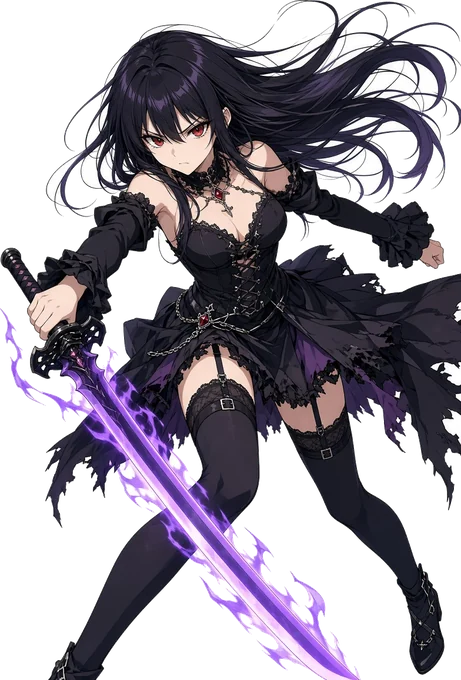
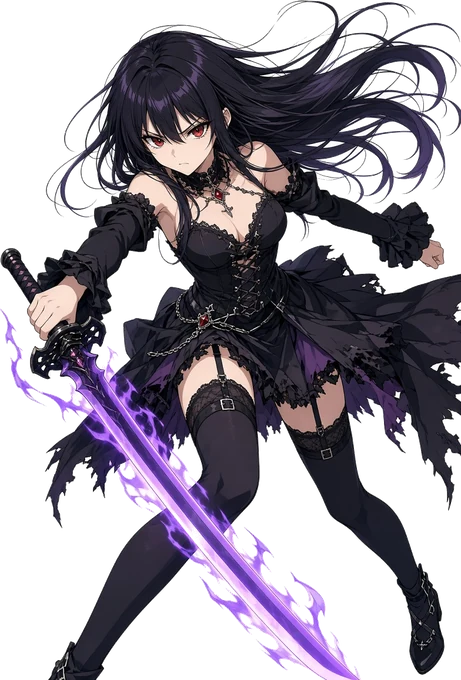
Add files via upload

diff --git a/index.html b/index.html
@@ -177,6 +177,8 @@ html{touch-action:manipulation}
 .dgrid{display:grid;grid-template-columns:repeat(4,1fr);gap:12px;margin:10px 0}.dy{background:#1a0d20;border:3px solid #e2b04a;border-radius:14px;padding:10px 4px;text-align:center;font:400 24px 'Lilita One',sans-serif}.dy b{display:block;font-size:44px;font-weight:400}.dy.cur{box-shadow:0 0 22px #ffc84a;border-color:#fff}.dy.done{opacity:.4}
 .cin{width:100%;font:inherit;font-size:34px;padding:10px 14px;border-radius:12px;border:2px solid #ffc84a;background:#2a1233;color:#fff;margin:12px 0}
 .sth{height:130px;width:auto;margin-right:16px;border-radius:12px;background:#150a1a}.nav button{padding:2px 12px;margin:4px 2px;font-size:22px}
+.unit .sp img{height:680px}#enemy .sp img{height:640px}#enemy .sp svg{height:380px}#enemy.boss .sp svg{height:580px}
+.nav button{position:relative}#nvf[data-n]:not([data-n=""])::after{content:attr(data-n);position:absolute;top:-10px;right:-4px;min-width:34px;height:34px;border-radius:17px;background:#e5484d;color:#fff;font:400 22px 'Lilita One',sans-serif;display:flex;align-items:center;justify-content:center;border:2px solid #fff}
 </style></head><body>
 <div id="app">
  <div class="top"><span class="chip"><span id="nm"></span> · Ур. <span id="lvl">1</span></span><span class="chip"><i class="ico coin"></i><span id="gold">0</span></span><span class="chip"><i class="ico gem"></i><span id="gems">0</span></span><button class="btn o gearbtn" id="cfg" aria-label="Настройки">⚙</button></div>
@@ -350,7 +352,7 @@ const gacha=()=>panel('Лудка',m=>'<div class="row rw" style="font-size:28px
 $('nvf').onclick=forge;$('nvg').onclick=gacha;
 const SN={atk:'Атака',hp:'Здоровье',crit:'Крит',dodge:'Уклон'};
 function bagAdd(it){if(S.bag.length>=40){const m=Math.min(...S.bag.map(b=>b.r));S.gold+=sell(m);S.bag.splice(S.bag.findIndex(b=>b.r===m),1)}S.bag.push(it);bl()}
-const bl=()=>{$('nvf').lastChild.textContent='Арсенал'+(S.bag.length?' ('+S.bag.length+')':'')};
+const bl=()=>{$('nvf').dataset.n=S.bag.length||''};
 function item(it){bagAdd(it);const up=it.r>S.rar[it.s];fl((up?'★ ':'')+RN[it.r]+' '+GEAR[it.s].n,up?'c':'d','enemy')}
 act['Лудка']=b=>{const n=+b.dataset.a,c=n===1?10:90;if(S.gems<c)return 'Не хватает кристаллов';S.gems-=c;let L=[];
  for(let k=0;k<n;k++){const it={s:Math.floor(Math.random()*6),r:rr([20,50,80,95])};bagAdd(it);L.push('<span style="color:'+RC[it.r]+'">'+RN[it.r]+' '+GEAR[it.s].n+'</span>')}
@@ -377,7 +379,7 @@ if(TG){try{TG.ready();TG.expand();TG.setHeaderColor('#2b1633');TG.setBackgroundC
  TG.CloudStorage.getItem('sb1',(er,v)=>{if(er||!v)return;try{const r=JSON.parse(v);if(r.t>(S.t||0)){Object.assign(S,r);if($('intro')&&S.name)$('intro').remove();hp=MAXHP();wave=1;spawn();ui();bl();applySkin()}}catch(x){}})}catch(x){}}
 $('shr').onclick=()=>{const l='https://t.me/share/url?url='+encodeURIComponent('https://t.me/AnimeArena_RPG_bot')+'&text='+encodeURIComponent('Заходи в Sakura Blade Arena!');TG?TG.openTelegramLink(l):window.open(l,'_blank')};
 const today=()=>new Date().toLocaleDateString('sv'),dg=m=>Math.floor(120*m*Math.pow(1.22,S.st-1));
-const DAILY=[['🪙','Золото',()=>S.gold+=dg(1)],['💎','5 кристаллов',()=>S.gems+=5],['📦','Бронзовый сундук',()=>S.chests[0]++],['🪙','Много золота',()=>S.gold+=dg(3)],['💎','10 кристаллов',()=>S.gems+=10],['📦','Серебряный сундук',()=>S.chests[1]++],['👑','Золотой сундук, 20 💎, эпик',()=>{S.chests[2]++;S.gems+=20;bagAdd({s:Math.floor(Math.random()*6),r:3})}]];
+const DAILY=[['<i class="ico coin"></i>','Золото',()=>S.gold+=dg(1)],['💎','5 кристаллов',()=>S.gems+=5],['📦','Бронзовый сундук',()=>S.chests[0]++],['<i class="ico coin"></i>','Много золота',()=>S.gold+=dg(3)],['💎','10 кристаллов',()=>S.gems+=10],['📦','Серебряный сундук',()=>S.chests[1]++],['👑','Золотой сундук, 20 💎, эпик',()=>{S.chests[2]++;S.gems+=20;bagAdd({s:Math.floor(Math.random()*6),r:3})}]];
 function daily(force){if($('ov')||$('intro')){setTimeout(()=>daily(force),1500);return}
  const t=today(),can=S.dl.last!==t;if(!can&&!force)return;
  const y=new Date(Date.now()-864e5).toLocaleDateString('sv'),st=can?(S.dl.last===y?S.dl.streak:0)+1:S.dl.streak,idx=Math.max(0,(st-1)%7);
@@ -388,7 +390,7 @@ act['Клан']=b=>{const a=b.dataset.a,c=S.cl;
  if(a==='up'){if(c.lv>=20)return 'Максимальный уровень';if(S.gold<cc(c.lv))return 'Не хватает золота';S.gold-=cc(c.lv);c.lv++;save();return 'Клан вырос до '+c.lv+' ур.!'}
  if(c.raid===today())return 'Рейд уже был сегодня';c.raid=today();const g=3+Math.floor(c.lv/2);S.gems+=g;S.chests[1]++;save();return 'Клановый босс повержен! Урон '+fmt(POWER()*(8+Math.random()*4))+'. Награда: '+g+' кристаллов и серебряный сундук'};
 const clan=()=>panel('Клан',m=>{const c=S.cl;if(!c)return '<div class="row rw" style="font-size:30px">Создай клан: он даёт бонус к атаке, здоровью и золоту. Клан с друзьями онлайн появится позже.</div><input id="cin" class="cin" maxlength="16" placeholder="Название клана"><div style="text-align:center"><button class="btn" data-a="mk">Создать</button></div>';
- return '<div class="row rw">'+c.n.replace(/</g,'&lt;')+' · ур. '+c.lv+'</div><div class="row rw" style="font-size:30px">Бонус: ⚔❤ +'+3*c.lv+'% · 🪙 +'+2*c.lv+'%</div>'+(m?'<div class="row rw" style="font-size:28px;text-align:center">'+m+'</div>':'')+'<div class="btns" style="justify-content:center;flex-wrap:wrap"><button class="btn o" data-a="up">Улучшить <i class="ico coin"></i>'+fmt(cc(c.lv))+'</button><button class="btn" data-a="raid">'+(c.raid===today()?'Рейд завтра':'Рейд босса')+'</button></div>'});
+ return '<div class="row rw">'+c.n.replace(/</g,'&lt;')+' · ур. '+c.lv+'</div><div class="row rw" style="font-size:30px">Бонус: ⚔❤ +'+3*c.lv+'% · <i class="ico coin"></i> +'+2*c.lv+'%</div>'+(m?'<div class="row rw" style="font-size:28px;text-align:center">'+m+'</div>':'')+'<div class="btns" style="justify-content:center;flex-wrap:wrap"><button class="btn o" data-a="up">Улучшить <i class="ico coin"></i>'+fmt(cc(c.lv))+'</button><button class="btn" data-a="raid">'+(c.raid===today()?'Рейд завтра':'Рейд босса')+'</button></div>'});
 const API='',AD=null,PACKS=[{id:'s1',n:'Стартовый набор',d:'3 золотых сундука, 200 💎, эпик',p:100,once:1},{id:'g1',n:'Горсть кристаллов',d:'+100 💎',p:50},{id:'g2',n:'Мешок кристаллов',d:'+650 💎',p:250},{id:'g3',n:'Сундук богатств',d:'+3000 💎',p:1000}];
 function grant(id){if(id==='s1'){S.chests[2]+=3;S.gems+=200;bagAdd({s:Math.floor(Math.random()*6),r:3});S.bought.s1=1}else S.gems+={g1:100,g2:650,g3:3000}[id];save();ui()}
 act['Магазин']=b=>{const a=b.dataset.a;
@@ -397,7 +399,7 @@ act['Магазин']=b=>{const a=b.dataset.a;
  fetch(API+'/invoice',{method:'POST',headers:{'Content-Type':'application/json'},body:JSON.stringify({id:a,init:TG?TG.initData:''})}).then(r=>r.json()).then(j=>TG.openInvoice(j.link,st=>{if(st==='paid')grant(a)}));return 'Открываю оплату...'};
 const shop=()=>panel('Магазин',m=>(m?'<div class="row rw" style="font-size:28px;text-align:center">'+m+'</div>':'')+PACKS.filter(p=>!(p.once&&S.bought[p.id])).map(p=>'<div class="row fr"><span style="flex:1">'+p.n+'<br><small style="font-size:22px;opacity:.8">'+p.d+'</small></span><button class="btn o" data-a="'+p.id+'">⭐ '+p.p+'</button></div>').join('')+'<div class="row fr"><span style="flex:1">Бесплатно: реклама<br><small style="font-size:22px;opacity:.8">+10 💎 каждые 4 часа</small></span><button class="btn" data-a="ad">Смотреть</button></div>');
 $('nvc').onclick=clan;$('nvs').onclick=shop;$('nvd').onclick=()=>daily(true);setTimeout(()=>daily(),1200);
-const SKINS=[{id:'night',n:'Клинок Ночи',r:1,img:'assets/hero.webp?v=5',d:'Начальный облик'},{id:'rosara',n:'Розара',r:3,img:'assets/witch.webp?v=2',d:'⚔❤ +10% · 🪙 +25%',lock:'Победи Розару на 10 этапе'},{id:'priest',n:'Жрица Падшего Света',r:3,img:'assets/priest.webp?v=3',d:'⚔❤ +7% · 🪙 +15%',st:15,lock:'Дойди до 15 этапа'},{id:'fox',n:'Кицунэ Тёмной Луны',r:4,img:'assets/fox.webp?v=3',d:'⚔❤ +10% · 🪙 +60%',gem:1500,lock:'1500 кристаллов'}];
+const SKINS=[{id:'night',n:'Клинок Ночи',r:1,img:'assets/hero.webp?v=5',d:'Начальный облик'},{id:'rosara',n:'Розара',r:3,img:'assets/witch.webp?v=2',d:'⚔❤ +10% · <i class="ico coin"></i> +25%',lock:'Победи Розару на 10 этапе'},{id:'priest',n:'Жрица Падшего Света',r:3,img:'assets/priest.webp?v=3',d:'⚔❤ +7% · <i class="ico coin"></i> +15%',st:15,lock:'Дойди до 15 этапа'},{id:'fox',n:'Кицунэ Тёмной Луны',r:4,img:'assets/fox.webp?v=3',d:'⚔❤ +10% · <i class="ico coin"></i> +60%',gem:1500,lock:'1500 кристаллов'}];
 function chk(){SKINS.forEach(k=>{if(k.st&&S.st>=k.st)S.own[k.id]=1})}
 function applySkin(){const k=SKINS.find(x=>x.id===S.skin)||SKINS[0];$('hsp').querySelector('img').src=k.img}
 act['Скины']=b=>{const k=SKINS.find(x=>x.id===b.dataset.a);chk();if(!S.own[k.id]){if(k.gem&&S.gems>=k.gem){S.gems-=k.gem;S.own[k.id]=1}else return k.gem?'Не хватает кристаллов ('+k.gem+')':k.lock}S.skin=k.id;applySkin();save();return 'Надето: '+k.n};
